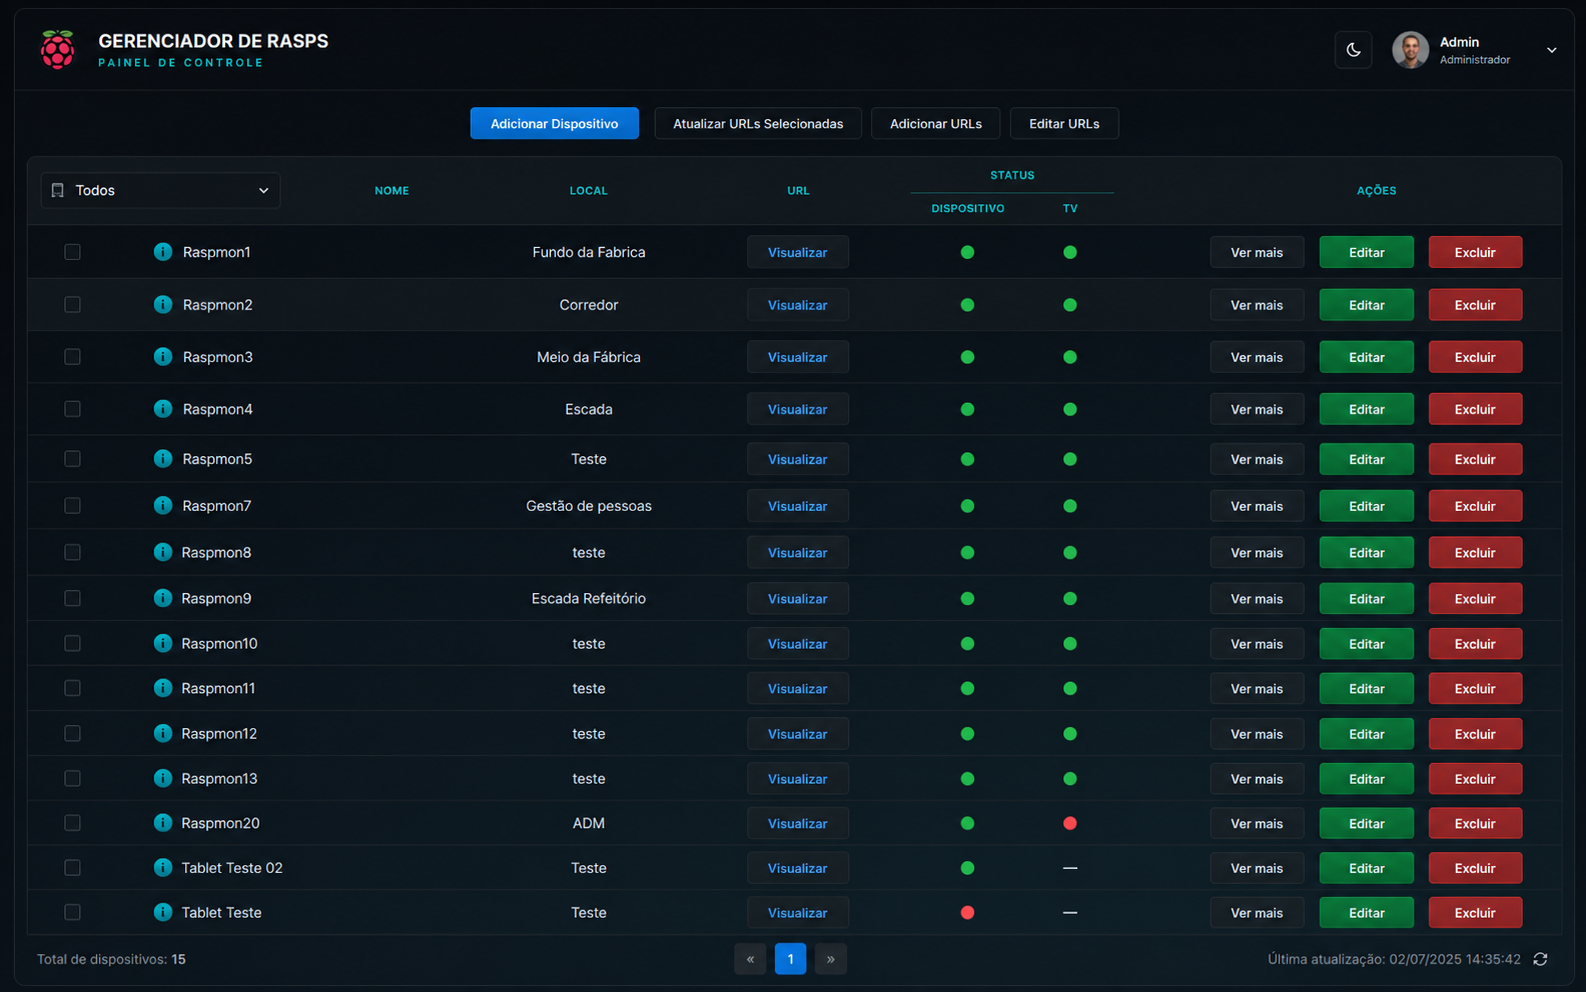
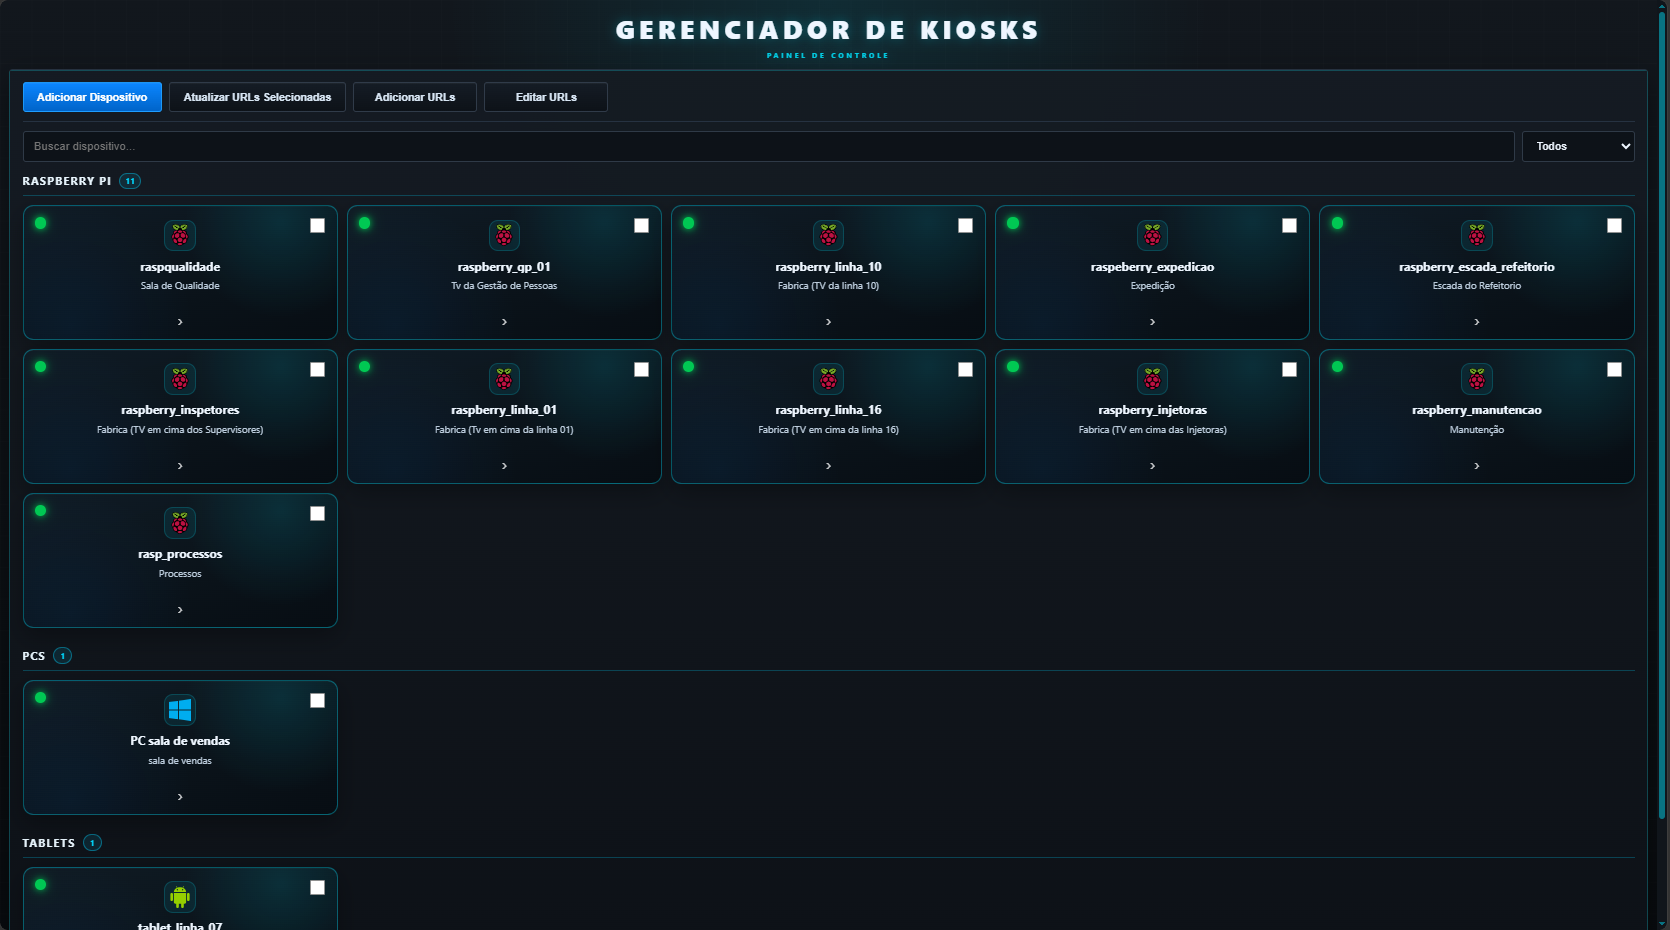
style: atualiza imagem da seção de projetos

diff --git a/app/components/Projects.tsx b/app/components/Projects.tsx
@@ -84,7 +84,7 @@ export default function Projects(): React.JSX.Element {
 
                 {/* Image Content */}
                 <div className={`${isEven ? "lg:col-start-1 lg:row-start-1" : ""}`}>
-                  <div className="relative w-full aspect-[4/3] rounded-2xl overflow-hidden bg-slate-950 p-2 lg:p-3 shadow-2xl">
+                 <div className="relative w-full aspect-video rounded-2xl overflow-hidden bg-slate-950 p-2 lg:p-3 shadow-2xl">
                     <div className="relative w-full h-full rounded-lg overflow-hidden">
                       <Image
                         src={project.image}

diff --git a/app/globals.css b/app/globals.css
@@ -33,5 +33,7 @@ a {
 img {
   max-width: 100%;
   height: auto;
+  object-fit: contain;
   display: block;
+  border-radius: 10px;
 }
